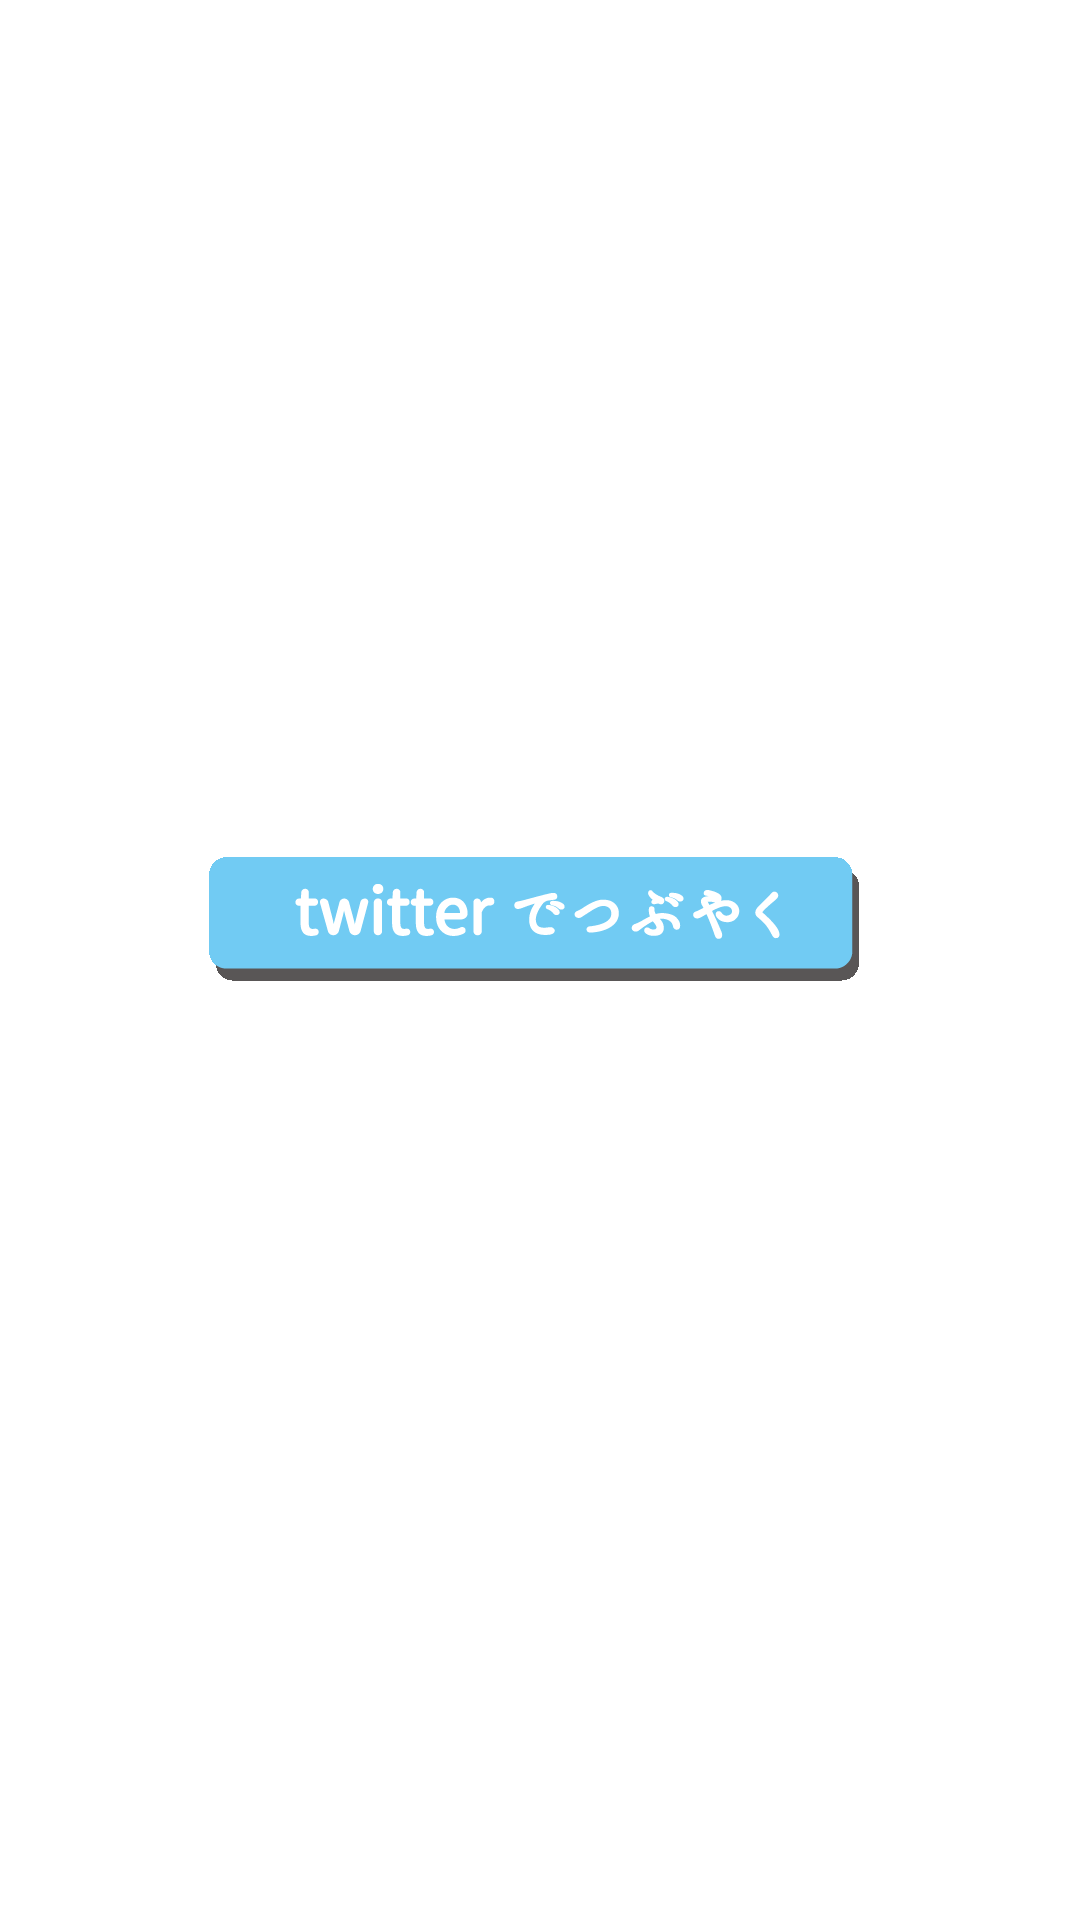
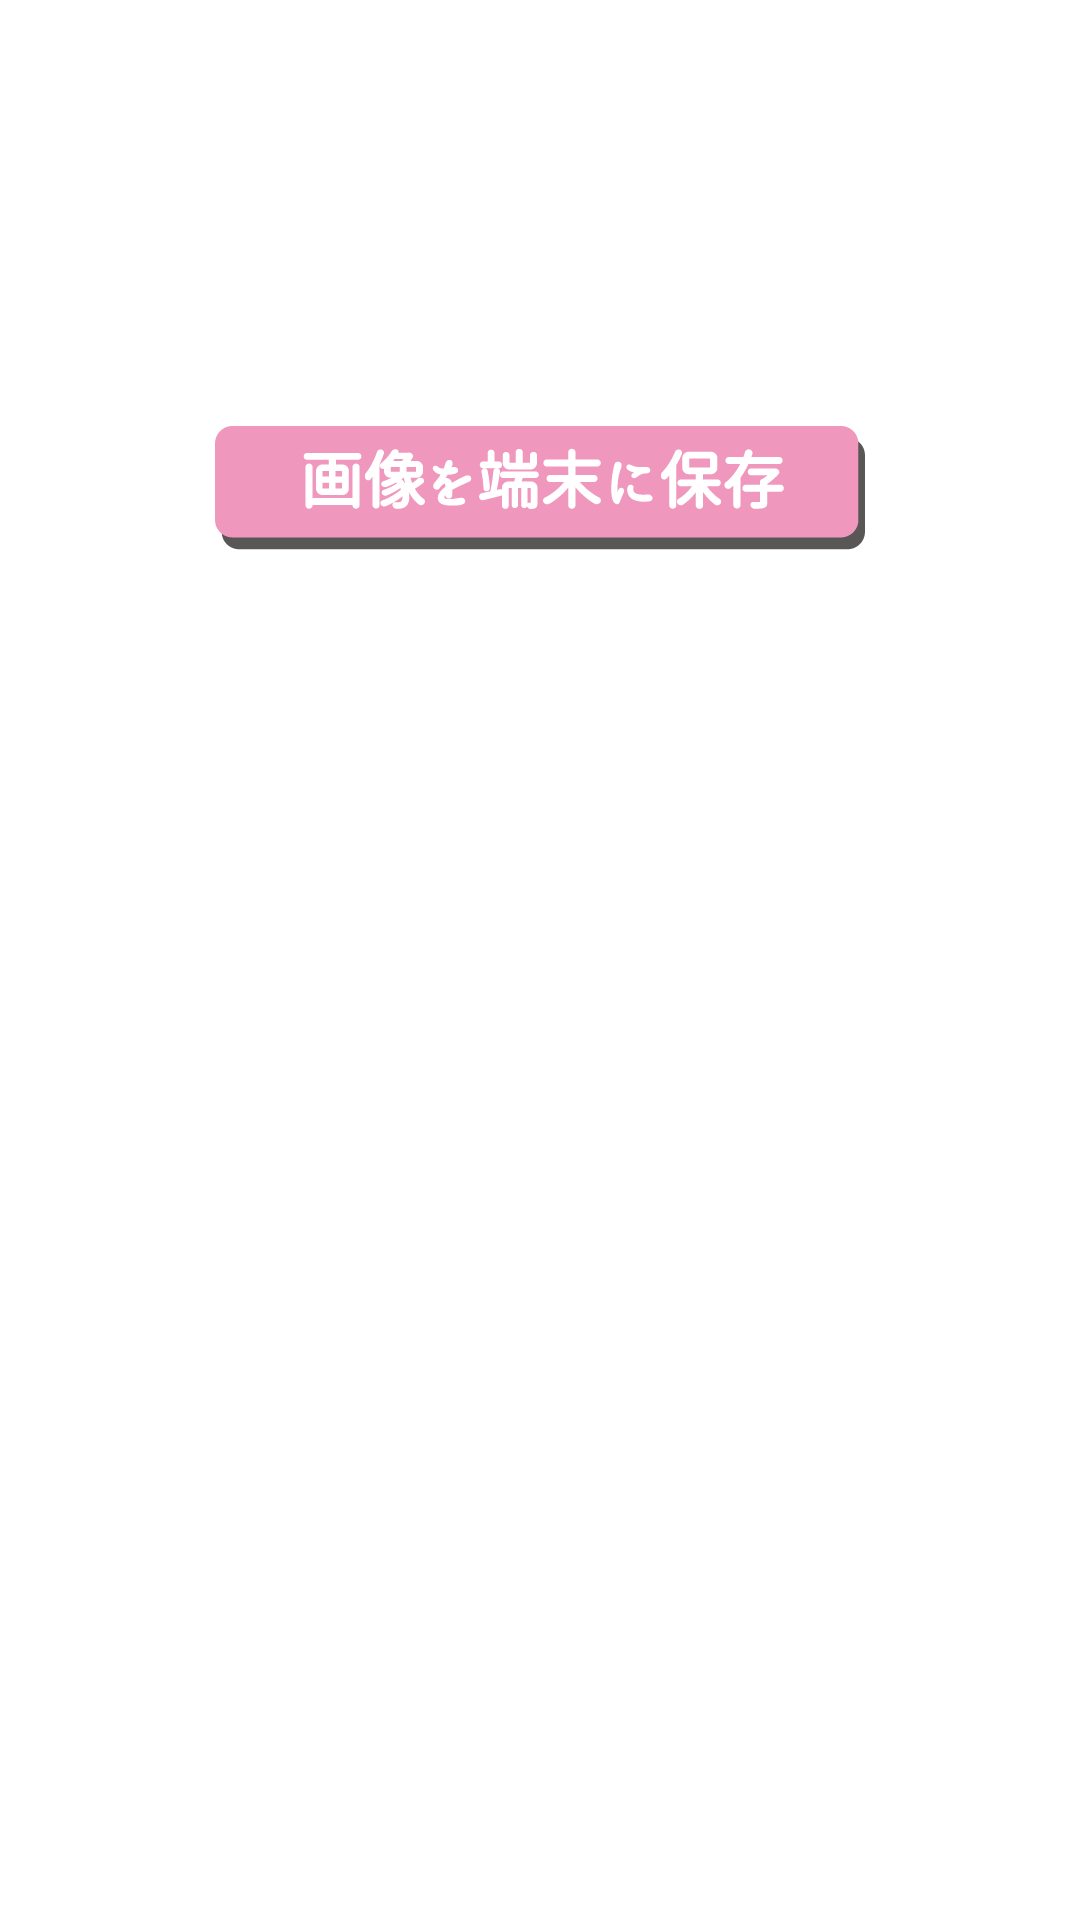
update

Changed region(s): [[0.1833, 0.2188, 0.825, 0.3125], [0.1833, 0.4375, 0.7944, 0.5312]]

diff --git a/js/Paper.js b/js/Paper.js
@@ -388,7 +388,7 @@ class Paper {
     
     move(){
         
-        /*
+        
         if(this.num < 51){
             touching=true;
             this.x1 = 580;
@@ -396,7 +396,7 @@ class Paper {
             this.x2 = 580;
             this.y2 = 800;
         }
-        */
+        
         
     
         if(touching){
@@ -482,7 +482,7 @@ class Paper {
         if(this.num == 53 && load_img == img_max)
         {
             if(this.completion_alpha<255) this.completion_alpha+=5;
-            if(touching && Math.sqrt(Math.pow(touch_x-width/2,2) + Math.pow(touch_y-1300,2)) < 100){
+            if(touching && Math.sqrt(Math.pow(touch_x-width/2,2) + Math.pow(touch_y-700,2)) < 100){
                 var t_url = "https://twitter.com/intent/tweet?text="　+ "「" + encodeURIComponent(this.input_text)　+ "」　うぇぶおりづるで折り鶴を折りました！　 web-oriduru.github.io" +"&hashtags=うぇぶおりづる"+"&hashtags=web_oriduru";
                 //window.open(t_url);
                 location.href = t_url;
@@ -520,7 +520,7 @@ class Paper {
             drawImage(img[7], width/2, height/2, width, height, 0, this.completion_alpha);
             drawImage(img[8], width/2, height/2, width, height, 0, this.completion_alpha);
             
-            if(touching && Math.sqrt(Math.pow(touch_x-width/2,2) + Math.pow(touch_y-900,2)) < 100){
+            if(touching && Math.sqrt(Math.pow(touch_x-width/2,2) + Math.pow(touch_y-480,2)) < 100){
                 drawImage(img[0], width/2, height/2, width, height, 0, this.completion_alpha);
                 drawImage(img[1], width/2+this.clowd_x/30 , height/2, width, height, 0, this.completion_alpha);
                 drawImage(img[2], width/2+this.clowd_x/50, height/2, width, height, 0, this.completion_alpha);

diff --git a/js/Opening.js b/js/Opening.js
@@ -1,10 +1,10 @@
 class Opening{
     constructor() {
-        this.img = creatImage("opening/opening_01");
-        this.button = new Blink("opening/opening_icon_01",width/2,height/2,width,height,0,2000);
+        this.img = creatImage("opening/opening_back");
+        this.button = new Blink("opening/start",width/2,height/2,width,height,0,2000);
     }
     move(){
-        if(touching && touch_x>320 && touch_x<800 && touch_y>1700 && touch_y<1760){
+        if(touching && touch_x>320 && touch_x<800 && touch_y>720 && touch_y<1000){
             touching = false;
             return true;
         }

diff --git a/js/canvas_lib.js b/js/canvas_lib.js
@@ -98,6 +98,7 @@ function TouchStart(e){
     touch_x = touch_list[0].pageX/dw;
     touch_y = touch_list[0].pageY/dh;
     touching = true;
+    console.log("touch_x : touch_y = "+touch_x+" : "+touch_y);
     
     if((touch_x>100 && touch_x<1080-100) && !scrollable){
         e.preventDefault();

diff --git a/js/main.js b/js/main.js
@@ -135,6 +135,6 @@ function draw() {
     ctx.fillText("touch_y : "+touch_y,50,100+30*1);
 	ctx.fillText("timer   : "+timer,50,100+30*2);
     ctx.fillText("count   : "+oriduru_count,50,100+30*4);
-     */
+    */
     
 }
